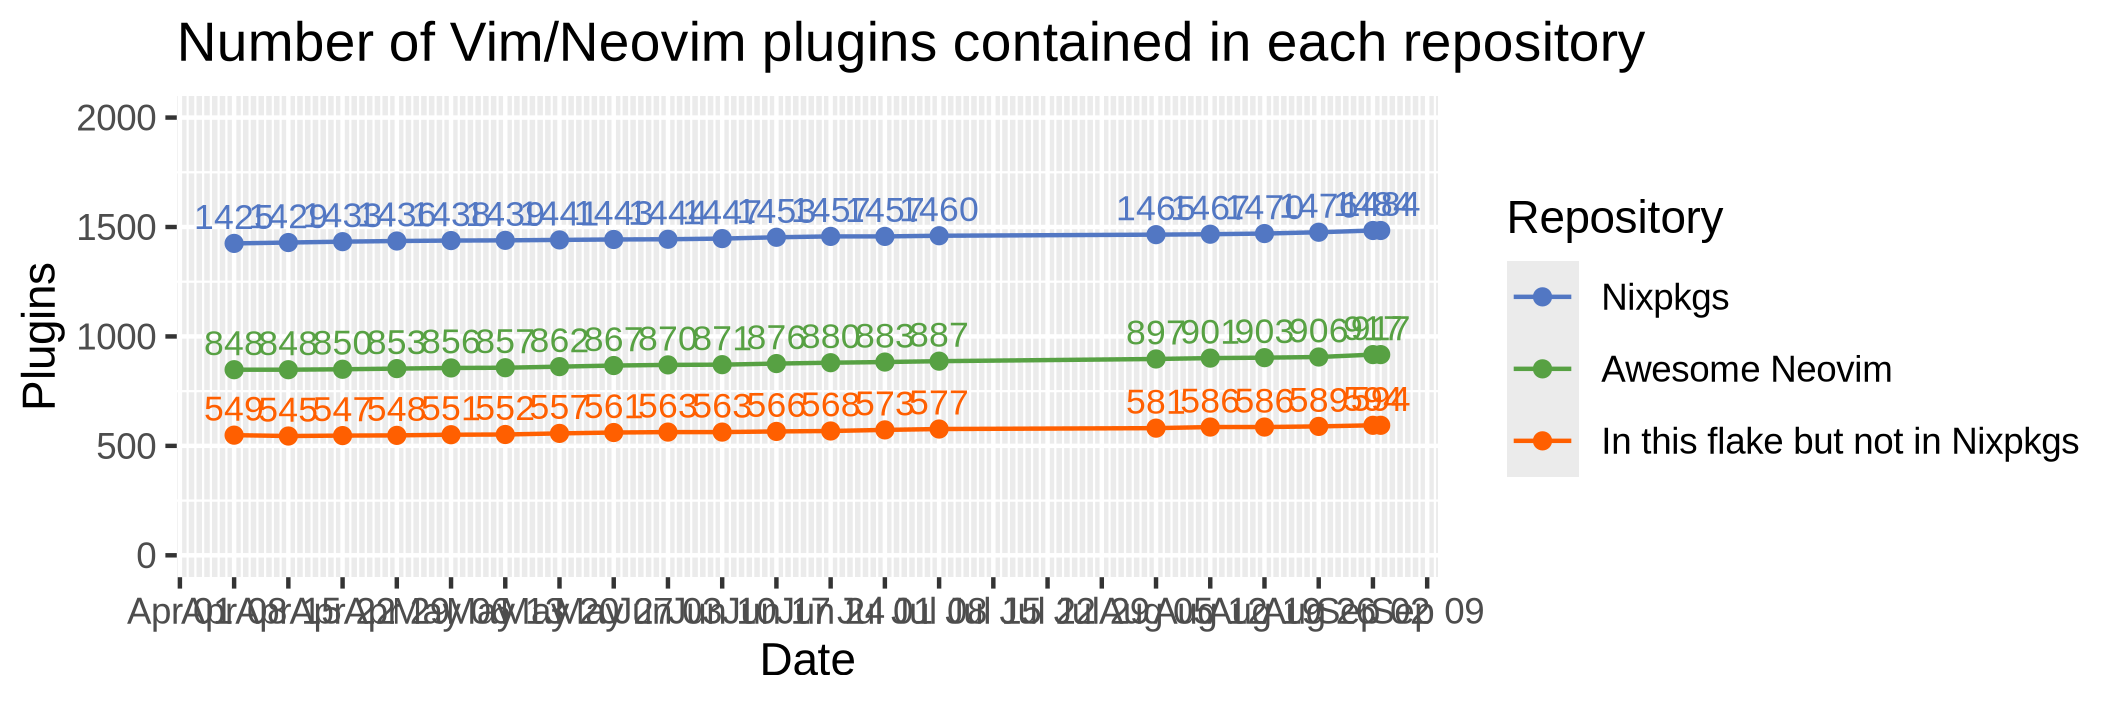
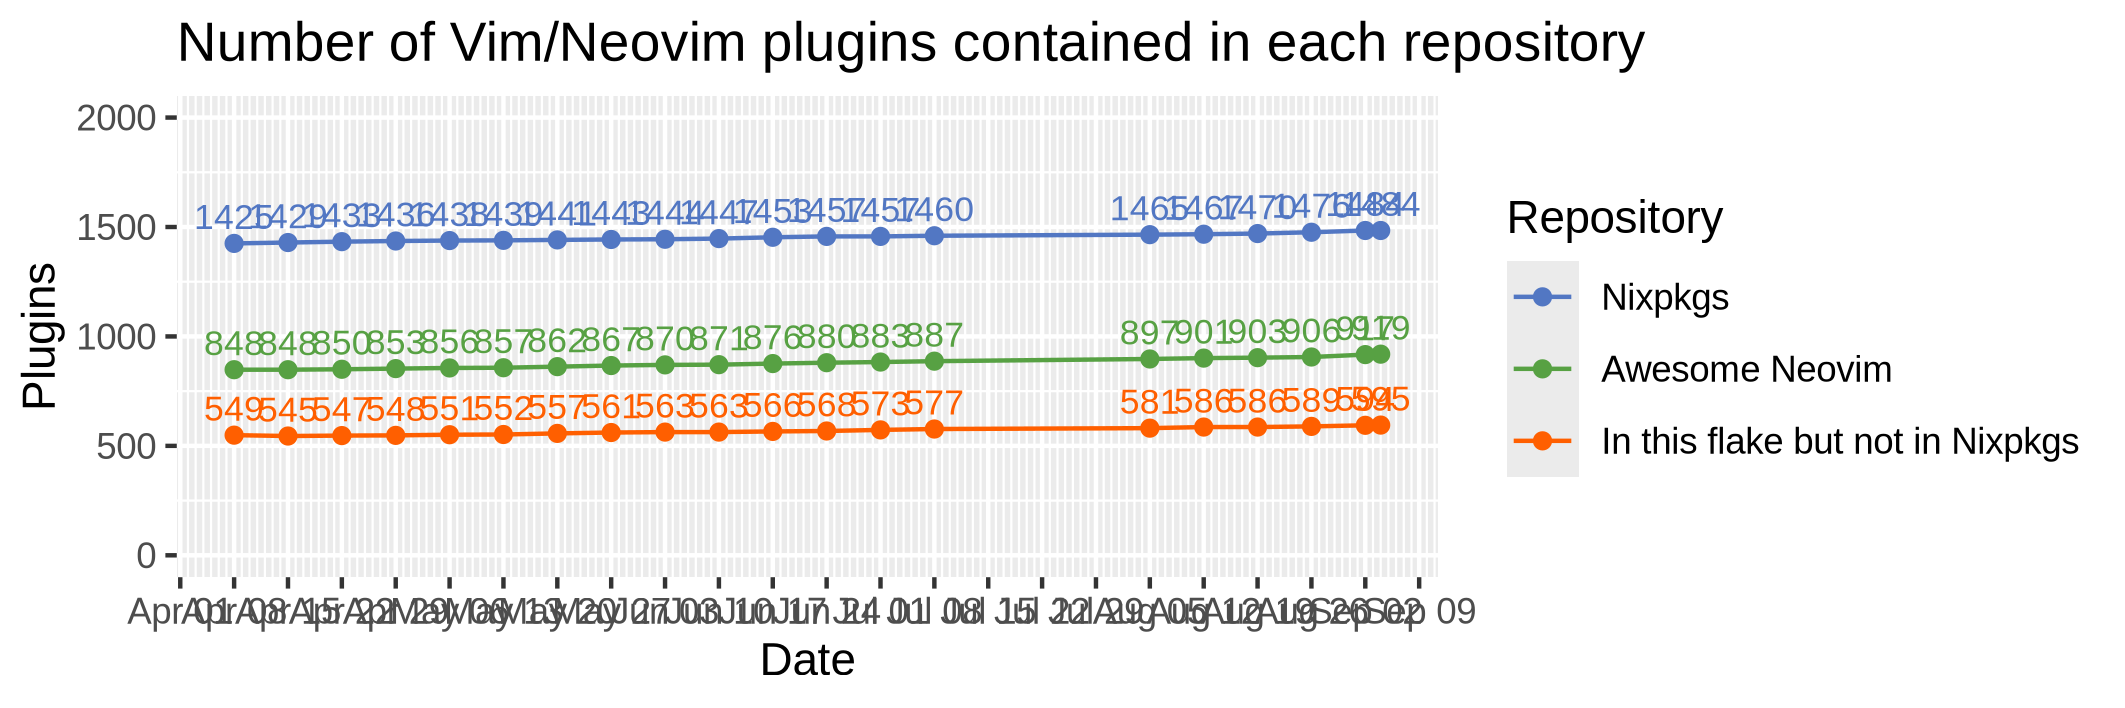
auto: update vim plugins

diff --git a/README.md b/README.md
@@ -8,7 +8,7 @@ Nix flake of Awesome Neovim plugins.
 
 [b1]: https://img.shields.io/github/actions/workflow/status/m15a/flake-awesome-neovim-plugins/check.yml?style=flat-square&logo=github&label=CI
 [b2]: https://github.com/m15a/flake-awesome-neovim-plugins/actions/workflows/check.yml
-[b3]: https://img.shields.io/badge/Awesome_Neovim_plugins-917-57A143?style=flat-square
+[b3]: https://img.shields.io/badge/Awesome_Neovim_plugins-919-57A143?style=flat-square
 [b4]: https://img.shields.io/endpoint?url=https://flakehub.com/f/m15a/flake-awesome-neovim-plugins/badge&style=flat-square
 [b5]: https://flakehub.com/flake/m15a/flake-awesome-neovim-plugins
 
